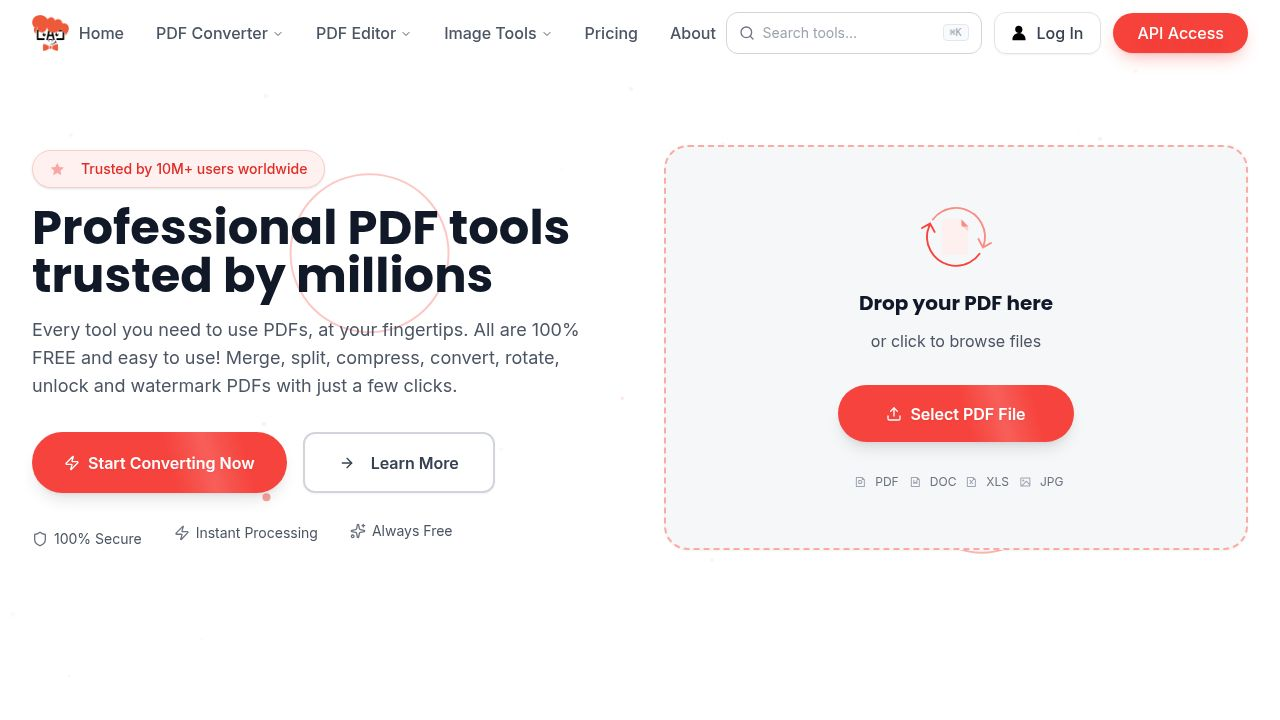
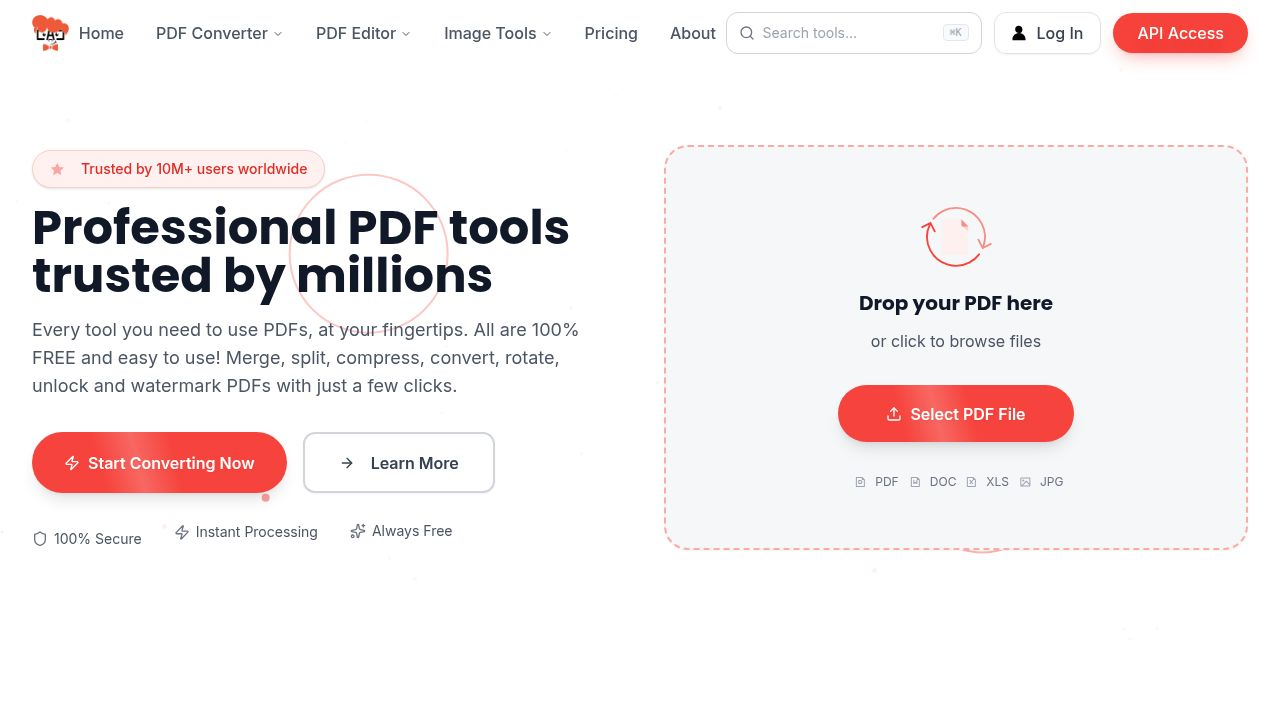
Allow users to move and select elements in the PDF editor on the web
Refactor the PDF editor component to conditionally skip a gesture detector on web, enabling drag and selection of elements.

Replit-Commit-Author: Agent
Replit-Commit-Session-Id: 6c1f079f-e871-4aeb-a9ec-8fc5e8f5142c
Replit-Commit-Checkpoint-Type: full_checkpoint
Replit-Commit-Event-Id: 9e107ace-3754-4901-a290-ddab4b67aca7
Replit-Commit-Screenshot-Url: https://storage.googleapis.com/screenshot-production-us-central1/26fd89dc-9741-4a13-8579-064d1630ec5d/6c1f079f-e871-4aeb-a9ec-8fc5e8f5142c/9wJ6oZd
Replit-Helium-Checkpoint-Created: true

diff --git a/artifacts/pdf-convert-mobile/app/editor/pdf.tsx b/artifacts/pdf-convert-mobile/app/editor/pdf.tsx
@@ -1470,9 +1470,7 @@ export default function PdfEditorScreen() {
               {/* Two-finger pinch/pan zoom layer. The gesture target is an
                   untransformed fill view so pinch focal coords are page-local;
                   page content + overlays live inside the transformed layer. */}
-              <GestureDetector gesture={zoomGesture}>
-                <View style={StyleSheet.absoluteFill} collapsable={false}>
-                  <Animated.View style={[StyleSheet.absoluteFill, zoomAnimStyle]}>
+              <ZoomViewport gesture={zoomGesture} animStyle={zoomAnimStyle}>
                     {slot?.src == null ? (
                       <View style={styles.blankPage} pointerEvents="none">
                         <Feather name="file" size={34} color={C.border} />
@@ -1576,9 +1574,7 @@ export default function PdfEditorScreen() {
                       />
                     )}
 
-                  </Animated.View>
-                </View>
-              </GestureDetector>
+              </ZoomViewport>
             </View>
 
             {/* Thumbnail rail */}
@@ -2476,6 +2472,32 @@ function RailThumb({ uri, src, rotate, index, active, onPress }: { uri?: string;
       </View>
     </Pressable>
   );
+}
+
+// ── Zoom viewport ────────────────────────────────────────────────────────────
+// On native, the page lives inside an RNGH GestureDetector for 2-finger
+// pinch/pan zoom. On web that GestureDetector swallows single-pointer (mouse)
+// events before react-native-web's responder system can hand them to the
+// element/capture PanResponders, so dragging/resizing overlays silently breaks.
+// Pinch zoom needs >=2 pointers and is unreachable with a mouse anyway, so on
+// web we drop the GestureDetector and render the content directly — restoring
+// element dragging. (zoomAnimStyle stays applied; it's just identity on web.)
+function ZoomViewport({
+  gesture,
+  animStyle,
+  children,
+}: {
+  gesture: React.ComponentProps<typeof GestureDetector>["gesture"];
+  animStyle: React.ComponentProps<typeof Animated.View>["style"];
+  children: React.ReactNode;
+}) {
+  const inner = (
+    <View style={StyleSheet.absoluteFill} collapsable={false}>
+      <Animated.View style={[StyleSheet.absoluteFill, animStyle]}>{children}</Animated.View>
+    </View>
+  );
+  if (Platform.OS === "web") return inner;
+  return <GestureDetector gesture={gesture}>{inner}</GestureDetector>;
 }
 
 // ── Draggable primitives ─────────────────────────────────────────────────────

diff --git a/.agents/memory/rngh-gesturedetector-web-drag.md b/.agents/memory/rngh-gesturedetector-web-drag.md
@@ -1,0 +1,38 @@
+---
+name: RNGH GestureDetector blocks PanResponder drag on Expo web
+description: Why overlay drag/select silently breaks on the Expo web build when page content is wrapped in an RNGH GestureDetector, and the web-conditional fix.
+---
+
+# RNGH GestureDetector swallows single-pointer events on react-native-web
+
+In the mobile PDF editor, page content (page image + capture layer + element
+overlays) is wrapped in an RNGH `<GestureDetector gesture={zoomGesture}>` for
+2-finger pinch + 2-finger pan zoom. On **react-native-web** this GestureDetector
+intercepts single-pointer (mouse) events before react-native-web's responder
+system can hand them to the child JS `PanResponder`s. Result: overlays cannot be
+moved, resized, OR even tap-selected on the web build — and the page doesn't pan
+either (RNGH pan is `minPointers(2)`), so a single mouse drag is swallowed by
+nothing useful. Native is unaffected (RNGH + PanResponder genuinely coexist).
+
+**Rule:** do NOT wrap PanResponder-driven editor content in an RNGH
+GestureDetector on web. Use a `ZoomViewport` wrapper that renders the inner
+`View`/`Animated.View` directly when `Platform.OS === "web"` and only wraps in
+`GestureDetector` on native. Pinch/2-finger zoom is unreachable with a mouse on
+web, so dropping it there costs nothing real and restores drag/select.
+
+**Why:** verified by e2e on the real Expo domain — before: signature stuck at the
+same pixel (no move, no select); after: tap shows selection ring + resize handle
+and drag follows the cursor. Architect PASS.
+
+**How to apply:**
+- Test the EXPO app at `$REPLIT_EXPO_DEV_DOMAIN` (full URL). `runTest` with
+  path `/` hits the **web** app (pdf-convert-master, previewPath `/`), NOT the
+  Expo mobile app — the Expo app bypasses the proxy. `placement-box` testID =
+  web app's PdfPlacementCanvas; the mobile editor uses DraggableBox/DragMove.
+- Tap-to-select is a good proxy: it uses the SAME element PanResponder as drag,
+  so if events are blocked, selection fails too.
+- Keep `zoomAnimStyle` applied in both paths (identity on web); `scrollEnabled`
+  logic still works because `zoomed` just stays false on web.
+- Tradeoff: web loses RNGH pinch zoom entirely (incl. touch-web). Acceptable for
+  a mobile app previewed on web; revisit only if touch-web zoom becomes a
+  product requirement.

diff --git a/.agents/memory/MEMORY.md b/.agents/memory/MEMORY.md
@@ -60,3 +60,4 @@
 - [Web PDF placement-box drag](pdf-placement-drag-web.md) — drag must use window-level pointer listeners + latest-ref (not element-scoped/setPointerCapture); verify e2e with tall viewport + scrollIntoView, test move & resize separately.
 - [Download access model](download-access-model.md) — guests = ONE in-session download (never persist jobId/uri); logged-in persist gated on isAuthenticated; friendly 401/403 "Please log in…"; logout clears history not Files.
 - [Imported project run setup](imported-project-run-setup.md) — fresh import: artifact registry empty, configure workflows manually w/ inline PORT (api 8080, web 21027); full secrets inventory; /api/health not /api/healthz.
+- [RNGH GestureDetector blocks web drag](rngh-gesturedetector-web-drag.md) — wrapping PanResponder editor content in RNGH GestureDetector kills overlay drag/select on Expo web; skip it via ZoomViewport when Platform.OS==="web".